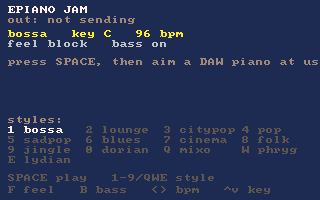
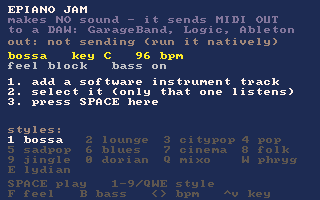
epianojam: say on screen that it sends MIDI OUT and makes no sound itself
A silent cart reads as a broken one. Two lines are now always visible ("makes NO
sound - it sends MIDI OUT" / "to a DAW: GarageBand, Logic, Ableton"), the device
line says what to do with it ("pick me as the input"), and while stopped the panel
gives the three setup steps instead of one cryptic hint -- including the one that
is not guessable, that only the SELECTED track monitors live MIDI. Written for
whoever opens this cold much later with no idea why nothing happens.

Also corrects prose that described the voicing implementation that was REPLACED:
both the docblock and the de:meta still said each tone goes in the octave nearest
where that voice was, which is the by-index version that came out as parallel
blocks. They now describe what the code does -- match each new pitch to its
nearest previous voice -- and name the trap, since the wrong version looks
identical in the source.

ui-audit clean (it caught the grid running into the controls row after the
header grew).

diff --git a/tools/carts/epianojam.c b/tools/carts/epianojam.c
@@ -14,7 +14,7 @@
   "lineage": "Made for fun, to point the new MIDI-out seam at something musical: harmony.h generates the progression, midi_output.h sends it, and the sound is whatever instrument you point it at -- an ePiano in GarageBand was the first. The cart the maker asked for after midiout proved the wire works: 'can you create a temp cart that midi creates interesting epiano chord progressions to play them in garageband'.",
   "description": {
     "summary": "Generates jazz/pop chord progressions with the shared harmony brain and plays them OUT over MIDI -- point it at a piano in any DAW and it jams on its own.",
-    "detail": "The cart makes no sound itself; harmony.h picks the chords and your DAW's instrument plays them. Thirteen styles are on the number keys -- bossa, cocktail, city pop, minor pop, blues, cinematic, and the modal ones -- each a different set of WEIGHTS over the same roman-numeral vocabulary, so the same brain sounds like a lounge or like a sad-pop record depending on which table it reads. What makes it listenable rather than a chord-quiz is the VOICING: each chord's four tones are placed in the octave nearest where the last chord's voices were, so the inner parts creep by a semitone or two instead of jumping in parallel blocks -- that is the difference between 'a computer naming chords' and 'someone playing piano'. Three feels (block, arpeggio, offbeat stabs) and a bass note underneath. The panel shows the roman numeral, the chord name, and the actual MIDI notes going out.",
+    "detail": "The cart makes no sound itself; harmony.h picks the chords and your DAW's instrument plays them. Thirteen styles are on the number keys -- bossa, cocktail, city pop, minor pop, blues, cinematic, and the modal ones -- each a different set of WEIGHTS over the same roman-numeral vocabulary, so the same brain sounds like a lounge or like a sad-pop record depending on which table it reads. What makes it listenable rather than a chord-quiz is the VOICING: each new pitch is matched to whichever of the previous chord's voices sits nearest it, so shared tones stay exactly where they are and only the rest move a step or two -- that is the difference between 'a computer naming chords' and 'someone playing piano'. Doing it the obvious way instead, tone 1 to voice 1, looks the same in the code and comes out as parallel blocks. Three feels (block, arpeggio, offbeat stabs) and a bass note underneath. The panel shows the roman numeral, the chord name, and the actual MIDI notes going out.",
     "controls": "SPACE plays/stops. 1-9 and 0 pick the style (Q/W/E for three more). LEFT/RIGHT tempo, UP/DOWN transpose the key. F cycles the feel (block / arp / stabs). B toggles the bass note."
   }
 }
@@ -86,11 +86,12 @@ static const HbVocab *vocab_of(const HbStyle *st) { return st->vocab ? st->vocab
 
 // ── VOICE LEADING — the thing that makes this sound played rather than spelled ──
 // harmony.h hands back four PITCH CLASSES (0..11). Dropping them into a fixed octave gives
-// parallel block chords that lurch around the keyboard: correct, and immediately robotic.
-// Instead, put each tone in whichever octave sits nearest the voice it is replacing, so the
-// inner parts move by a semitone or two and the chord "resolves" the way a pianist's hand does.
-// Cheap version of what rad_lead_to does for the radio carts — kept local because that one is
-// wired to radio.h's voice model, and this cart owns nothing but MIDI note numbers.
+// parallel block chords that lurch around the keyboard: correct, and immediately robotic. Good
+// voicing holds whatever tones the two chords share and moves the rest by a step or two, which is
+// what a pianist's hand actually does. Cheap version of what rad_lead_to does for the radio carts,
+// kept local because that one is wired to radio.h's voice model and this cart owns nothing but
+// MIDI note numbers.
+
 // Nearest MIDI note of pitch class `pc` to `near`, kept inside the right-hand register.
 static int nearest_pc(int pc, int near) {
     int base = near - (near % 12) + pc, best = base, bestd = 999;
@@ -214,38 +215,47 @@ void draw(void) {
     const HbVocab *vb = vocab_of(st);
 
     print("EPIANO JAM", 8, 6, CLR_WHITE);
+    // ALWAYS on screen, both lines. This cart is silent by design, and a silent cart reads as a
+    // broken one — so it has to say, on its own face, that the sound is supposed to come out of
+    // something else. Written for whoever opens this cold in a year with no idea why it does
+    // nothing. (The screen is 320px on an 8px font = 40 characters; every line here is counted.)
+    print("makes NO sound - it sends MIDI OUT", 8, 16, CLR_INDIGO);
+    print("to a DAW: GarageBand, Logic, Ableton", 8, 26, CLR_INDIGO);
     bool live = midi_out_ready();
-    print(live ? "out: dreamengine" : "out: not sending", 8, 16, live ? CLR_GREEN : CLR_MEDIUM_GREY);
+    print(live ? "out: dreamengine (pick me as the input)"
+               : "out: not sending (run it natively)", 8, 38, live ? CLR_GREEN : CLR_MEDIUM_GREY);
 
     snprintf(b, sizeof b, "%s   key %s   %d bpm", STYLES[styleIx].name, PC_NAME[keyPc], tempo);
-    print(b, 8, 30, CLR_YELLOW);
+    print(b, 8, 52, CLR_YELLOW);
     snprintf(b, sizeof b, "feel %s   bass %s", FEEL_NAME[feel], want_bass ? "on" : "off");
-    print(b, 8, 40, CLR_LIGHT_GREY);
+    print(b, 8, 62, CLR_LIGHT_GREY);
 
     // the chord, big-ish: roman numeral + real name
     if (playing) {
         int root = (keyPc + vb->off[fn]) % 12;
         snprintf(b, sizeof b, "%s   %s%s", vb->fname[fn], PC_NAME[root], hb_qname[vb->qual[fn]]);
-        print(b, 8, 58, CLR_ORANGE);
+        print(b, 8, 78, CLR_ORANGE);
 
         snprintf(b, sizeof b, "notes  %d %d %d %d   bass %d",
                  voiced[0], voiced[1], voiced[2], voiced[3], want_bass ? bass_note : -1);
-        print(b, 8, 70, CLR_MEDIUM_GREY);
+        print(b, 8, 90, CLR_MEDIUM_GREY);
 
         // a little keyboard: which of the 12 pitch classes are sounding
         for (int i = 0; i < 12; i++) {
             int on = 0;
             for (int v = 0; v < NVOICE; v++) if (voiced[v] % 12 == i) on = 1;
-            rectfill(8 + i * 14, 84, 12, 16, on ? CLR_WHITE : CLR_DARK_GREY);
-            print(PC_NAME[i], 9 + i * 14, 102, on ? CLR_WHITE : CLR_DARKER_GREY);
+            rectfill(8 + i * 14, 102, 12, 12, on ? CLR_WHITE : CLR_DARK_GREY);
+            print(PC_NAME[i], 9 + i * 14, 116, on ? CLR_WHITE : CLR_DARKER_GREY);
         }
     } else {
-        print("press SPACE, then aim a DAW piano at us", 8, 58, CLR_MEDIUM_GREY);
+        print("1. add a software instrument track", 8, 78, CLR_WHITE);
+        print("2. select it (only that one listens)", 8, 88, CLR_WHITE);
+        print("3. press SPACE here", 8, 98, CLR_WHITE);
     }
 
-    print("styles:", 8, 116, CLR_MEDIUM_GREY);
+    print("styles:", 8, 126, CLR_MEDIUM_GREY);
     for (int i = 0; i < NSTYLE; i++) {
-        int x = 8 + (i % 4) * 78, y = 126 + (i / 4) * 10;
+        int x = 8 + (i % 4) * 78, y = 136 + (i / 4) * 10;
         // 1..9 then 0 for the tenth — matching the keyp() bindings above. Writing '1'+i for all
         // ten runs past '9' and labels the tenth style ':', which is not a key anyone can press.
         char k = i < 9 ? (char)('1' + i) : i == 9 ? '0' : "QWE"[i - 10];
@@ -253,6 +263,6 @@ void draw(void) {
         print(b, x, y, i == styleIx ? CLR_WHITE : CLR_DARK_GREY);
     }
 
-    print("SPACE play   1-9/QWE style", 8, SCREEN_H - 26, CLR_DARK_GREY);
-    print("F feel   B bass   <> bpm   ^v key", 8, SCREEN_H - 14, CLR_DARK_GREY);
+    print("SPACE play   1-9/QWE style", 8, SCREEN_H - 20, CLR_DARK_GREY);
+    print("F feel   B bass   <> bpm   ^v key", 8, SCREEN_H - 10, CLR_DARK_GREY);
 }
